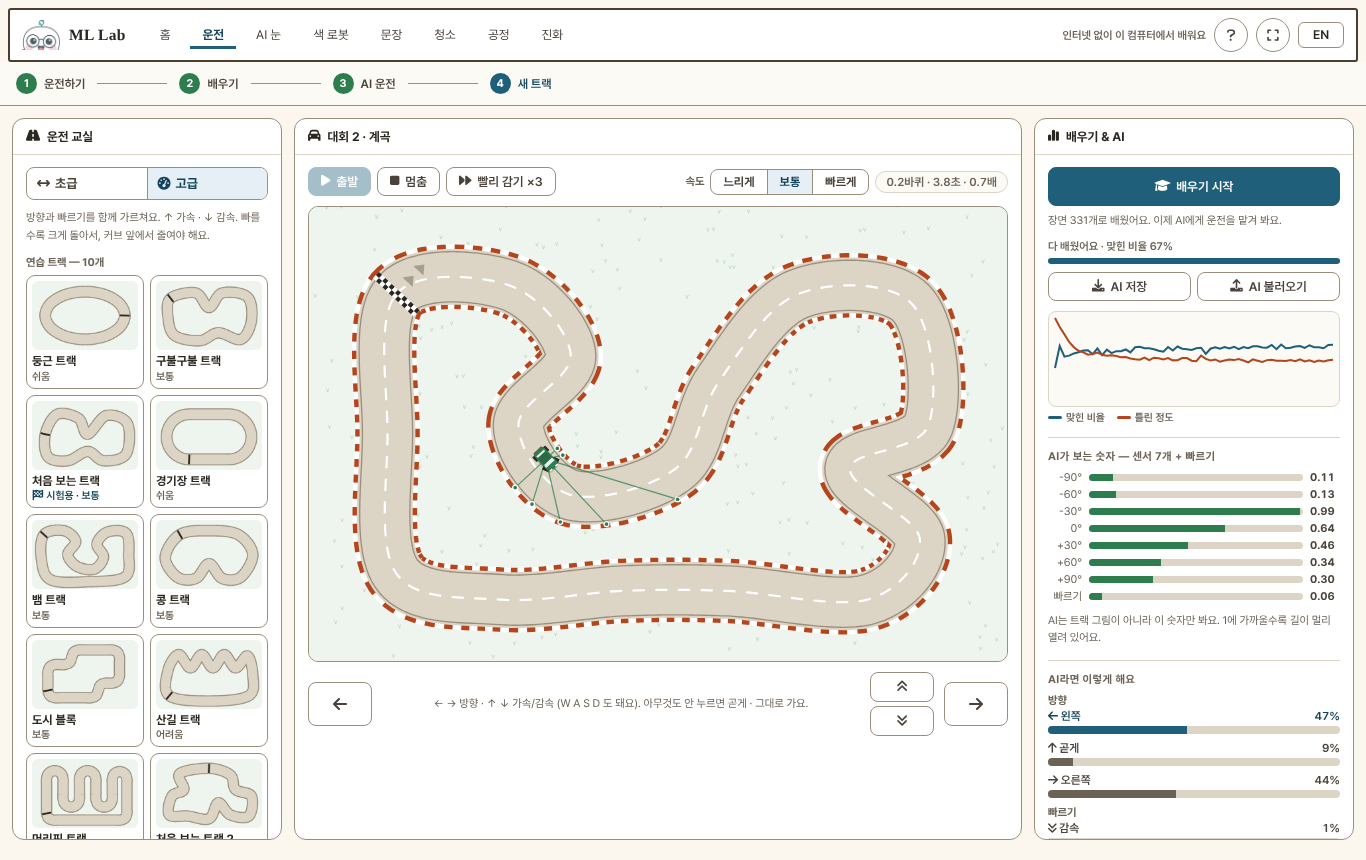
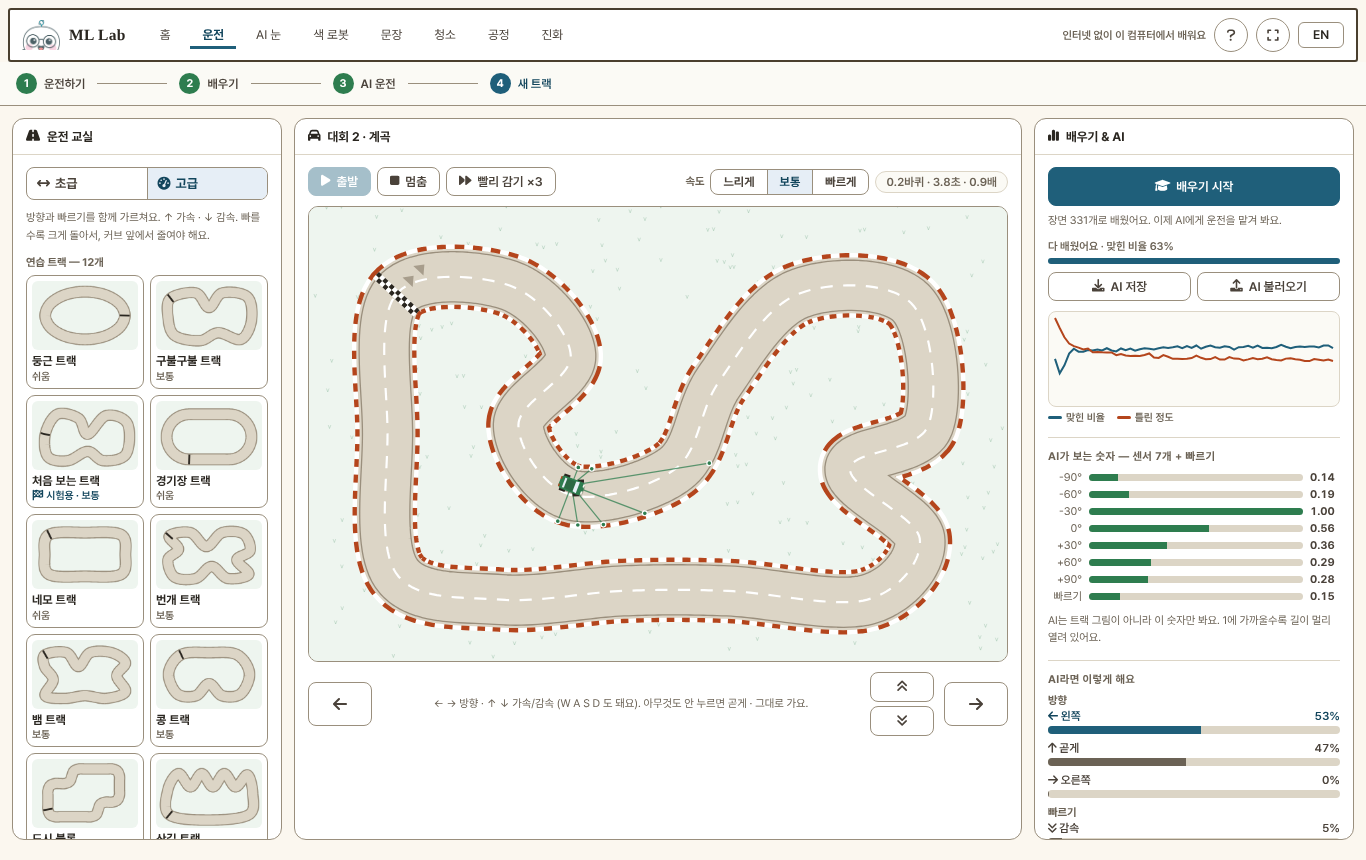
운전: edge-lab 자동차 가르치기에 맞춤 — 같은 트랙 · 같은 AI 파일 형식
- 같은 id 트랙을 edge-lab 모양으로: bean · snake · test2 (조절점 · 폭까지 같음, 마스크 비교)
- edge-lab 에만 있던 네모(square) · 번개(zigzag) 트랙 추가 → 연습 트랙 12개 · 24코스
- AI 파일을 edge-lab 형식(kind 'edge-lab-drive')으로 저장 — edge-lab 을 고치지 않고 바로 읽음.
  예전 'ml-lab-drive' 파일도 계속 읽음
- 처음 보는 트랙 2 난이도 어려움 → 보통 (edge-lab 모양 기준으로 다시 잼)
- 일반화 · 사람 난이도 · 고급 흐름 · 무게 효과 수치 다시 재서 DEVELOP · LESSONS · README 반영, 스크린샷 갱신
- 운전 모듈 import 버전 v7, page.js v8, i18n v10

Claude-Session: https://claude.ai/code/session_014h77NB54n1ck2McG7DAqXV

diff --git a/acts/drive/track.js b/acts/drive/track.js
@@ -40,6 +40,8 @@ function turtle(x, y, headingDeg, cmds, step = 40) {
 // level: 1 쉬움 · 2 보통 · 3 어려움. unseen: 연습에 쓰지 말고 시험에 쓰는 트랙.
 // 조절점 방향은 상관없다 — 차는 pts[0] 에서 pts[1] 쪽으로 출발하고, "거꾸로" 를 고르면 반대로 돈다.
 // 처음 세 트랙(oval·wavy·test)은 DEVELOP.md 의 잰 결과가 기대는 트랙이라 모양을 바꾸지 않는다.
+// edge-lab 자동차 가르치기(view_project/lib/drive.js)와 id 가 같은 트랙은 조절점 · 폭까지 똑같이 둔다
+// (oval · wavy · square · bean · zigzag · snake · test · test2 · c1~c3). 한쪽을 바꾸면 다른 쪽도 바꾼다.
 export const TRACKS = [
   {
     id: 'oval', label: '둥근 트랙', width: 74, level: 1,
@@ -64,17 +66,27 @@ export const TRACKS = [
     ctrl: turtle(250, 440, 0, [['F', 300], ['L', 180, 170], ['F', 300], ['L', 180, 170]]),
   },
   {
+    // 둥근 네모 — 커브 넷이 모두 같은 쪽 (edge-lab 트랙)
+    id: 'square', label: '네모 트랙', width: 74, level: 1,
+    ctrl: [[130, 110], [400, 95], [670, 110], [705, 260], [670, 410], [400, 425], [130, 410], [95, 260]],
+  },
+  {
+    // 번개처럼 꺾이는 커브가 이어진다 (edge-lab 트랙)
+    id: 'zigzag', label: '번개 트랙', width: 70, level: 2,
+    ctrl: [[100, 120], [260, 95], [380, 200], [500, 95], [660, 105], [710, 230], [610, 300],
+           [700, 410], [540, 440], [420, 350], [300, 440], [140, 430], [90, 300], [170, 220]],
+  },
+  {
     // 뱀처럼 왼쪽·오른쪽 커브가 번갈아 나온다
     id: 'snake', label: '뱀 트랙', width: 70, level: 2,
-    ctrl: [[90, 110], [240, 80], [330, 160], [270, 260], [340, 350], [470, 370],
-           [540, 280], [490, 180], [570, 90], [710, 100], [730, 260], [700, 430],
-           [420, 465], [140, 450], [70, 290]],
+    ctrl: [[100, 110], [260, 95], [350, 200], [440, 95], [600, 95], [705, 170], [640, 270],
+           [705, 390], [560, 440], [400, 420], [250, 440], [100, 420], [160, 300], [95, 200]],
   },
   {
     // 바깥으로 크게 돌다가 안쪽으로 한 번 움푹 들어간다 (반대쪽 커브가 하나)
     id: 'bean', label: '콩 트랙', width: 72, level: 2,
-    ctrl: [[180, 110], [400, 80], [620, 110], [730, 260], [640, 430], [500, 440],
-           [400, 330], [300, 440], [160, 430], [70, 280]],
+    ctrl: [[190, 110], [400, 95], [610, 110], [705, 250], [640, 405], [500, 420], [400, 330],
+           [300, 420], [160, 405], [95, 250]],
   },
   {
     // 네모난 길모퉁이 — 직각 커브가 왼쪽·오른쪽으로 모두 있다
@@ -101,15 +113,14 @@ export const TRACKS = [
     ]),
   },
   {
-    id: 'test2', label: '처음 보는 트랙 2', width: 70, level: 3, unseen: true,
-    ctrl: [[400, 70], [560, 120], [600, 230], [720, 280], [700, 430], [560, 420],
-           [470, 330], [400, 450], [240, 430], [100, 420], [120, 280], [210, 230],
-           [180, 110]],
+    id: 'test2', label: '처음 보는 트랙 2', width: 70, level: 2, unseen: true,
+    ctrl: [[120, 150], [300, 95], [470, 140], [620, 95], [710, 200], [650, 330], [700, 430],
+           [470, 440], [330, 360], [190, 440], [100, 330]],
   },
 ];
 
 // 대회 트랙 — AI 만 달린다 (사람 운전 · 끼어들기 · 장면 모으기 없음). 연습 트랙(TRACKS)과 따로 둔다:
-// 섞으면 "트랙 — 10개", 20코스 검사, DEVELOP.md 의 일반화 표가 모두 바뀐다.
+// 섞으면 "연습 트랙 — 12개", 24코스 검사, DEVELOP.md 의 일반화 표가 모두 바뀐다.
 // 조절점은 edge-lab(view_project/lib/drive.js)과 똑같다 — spline · 마스크 계산도 같아서 같은 트랙이 된다.
 // 기본 방향만 쓴다 (거꾸로는 없다 — 화면에서 방향 고르기를 숨긴다). c1 은 연습용 '머리핀 트랙' 과 헷갈리지 않게 이름만 바꿨다.
 export const CONTEST = [

diff --git a/acts/drive/page.js b/acts/drive/page.js
@@ -9,9 +9,9 @@
 // 고급: 방향 + 빠르기 (센서 7개 + 빠르기 → 방향 3 · 빠르기 3). edge-lab 자동차 가르치기와 같은 계산.
 // 두 모드는 AI 가 보는 숫자 개수가 달라(7 · 8) 모은 운전 · AI · 기록을 따로 가진다.
 
-import { TRACKS, CONTEST, WORLD_W, WORLD_H, buildTrack, centerline } from './track.js?v=6';
-import { Car, RAY_DEG, RAY_MAX, DT, drive as raceDrive } from './sim.js?v=6';
-import { Policy, savePolicy, loadPolicy } from './policy.js?v=6';
+import { TRACKS, CONTEST, WORLD_W, WORLD_H, buildTrack, centerline } from './track.js?v=7';
+import { Car, RAY_DEG, RAY_MAX, DT, drive as raceDrive } from './sim.js?v=7';
+import { Policy, savePolicy, loadPolicy } from './policy.js?v=7';
 
 const T = s => (typeof GL_T === 'function' ? GL_T(s) : s);
 const $ = id => document.getElementById(id);
@@ -27,7 +27,7 @@ const MIN_SAMPLES = 30;
 // 왼쪽·오른쪽으로 도는 장면이 각각 이만큼은 있어야 처음 보는 트랙에서도 잘 돈다.
 // 사람처럼 늦게 반응하는 가상 학생으로 재 보니 바퀴 수보다 이 균형이 중요했다:
 // 둥근 트랙만 돌며 왼쪽이 6~15장면이면 다른 트랙에서 곧 부딪혔고,
-// 양쪽이 각각 30장면을 넘으면 구불구불 트랙 반 바퀴로도 20개 코스를 모두 돌았다.
+// 양쪽이 각각 30장면을 넘으면 구불구불 트랙 반 바퀴로도 24개 코스를 모두 돌았다.
 // 다만 쉬운 트랙(둥근·경기장)만 양방향으로 돌면 양쪽 장면은 넉넉해도 급한 커브를
 // 못 배워 산길·콩 트랙에서 부딪혔다 — 그래서 쉬운 트랙에서만 모았으면 따로 알려 준다.
 const READY_TURNS = 30;
@@ -39,7 +39,7 @@ const THR_ICON = ['fa-angles-down', 'fa-equals', 'fa-angles-up'];
 const LEVEL_LABEL = ['', '쉬움', '보통', '어려움'];
 
 // ── 상태 ────────────────────────────────────────────────────
-// 트랙 번호: 0~9 연습 트랙(TRACKS), 10~12 대회 트랙(CONTEST)
+// 트랙 번호: 0~11 연습 트랙(TRACKS), 12~14 대회 트랙(CONTEST)
 const ALL = [...TRACKS, ...CONTEST];
 const isRace = i => !!ALL[i].contest;
 // 트랙은 고를 때 만든다 (마스크 만들기가 무거워서 처음에 다 만들지 않는다)

diff --git a/acts/drive/policy.js b/acts/drive/policy.js
@@ -147,11 +147,12 @@ export class Policy {
 
 // ── AI 파일 ─────────────────────────────────────────────────
 // 배운 AI 를 JSON 으로. 계산에 난수가 없어 다른 PC 에서 불러와도 같은 운전을 한다.
-// edge-lab 자동차 가르치기와 형식이 같다 (kind 만 다름) — 트랙 · 물리가 같아 같은 AI 면 같은 대회 기록이 나온다.
-export const AI_KINDS = ['ml-lab-drive', 'edge-lab-drive'];
+// edge-lab 자동차 가르치기와 형식까지 같게 저장한다 (kind 'edge-lab-drive') — edge-lab 이 고치지 않고 바로 읽는다.
+// 트랙 · 물리가 같아 같은 AI 면 두 서비스에서 같은 대회 기록이 나온다. 읽을 때는 예전 ml-lab 파일('ml-lab-drive')도 받는다.
+export const AI_KINDS = ['edge-lab-drive', 'ml-lab-drive'];
 
 export function savePolicy(pol, info = {}) {
-  const o = { kind: 'ml-lab-drive', v: 1, nIn: pol.nIn, hid: pol.hid, heads: pol.heads.slice(), p: {} };
+  const o = { kind: 'edge-lab-drive', v: 1, nIn: pol.nIn, hid: pol.hid, heads: pol.heads.slice(), p: {} };
   for (const k in pol.p) o.p[k] = Array.from(pol.p[k], v => +v.toPrecision(7));
   return Object.assign(o, info);
 }

diff --git a/acts/drive/sim.js b/acts/drive/sim.js
@@ -10,7 +10,7 @@
 // AI 는 센서 7개 + 지금 빠르기를 본다. 고급 계산은 edge-lab view_project/lib/drive.js 와 같다
 // (같은 AI 파일이면 두 저장소에서 같은 대회 기록이 나오게).
 
-import { onRoad, nearestIdx } from './track.js?v=6';
+import { onRoad, nearestIdx } from './track.js?v=7';
 
 export const RAY_DEG = [-90, -60, -30, 0, 30, 60, 90];
 export const RAY_MAX = 160;           // 센서가 볼 수 있는 가장 먼 거리
@@ -55,7 +55,7 @@ export class Car {
 
   // action: 0/1/2, k: 빠르기 배수 (초급은 늘 1). 반환: 부딪혔는지
   // 판단은 1/60초에 한 번, 움직임만 ceil(k) 번으로 잘게 나눠 길을 건너뛰지 않게 한다.
-  // k = 1 이면 예전 계산과 비트 단위로 같다 (식의 계산 순서까지 그대로 — tests/drive.test.mjs 가 20코스로 비교).
+  // k = 1 이면 예전 계산과 비트 단위로 같다 (식의 계산 순서까지 그대로 — tests/drive.test.mjs 가 24코스로 비교).
   step(action, k = 1) {
     if (this.crashed) return true;
     const sub = Math.ceil(k);

diff --git a/drive.html b/drive.html
@@ -39,7 +39,7 @@
       </div>
       <div class="hint" id="modeHint">방향만 가르쳐요. 차는 늘 같은 빠르기로 달려요.</div>
 
-      <div class="pb-label" style="margin-top:12px">연습 트랙 — 10개</div>
+      <div class="pb-label" style="margin-top:12px">연습 트랙 — 12개</div>
       <div id="trackPick"></div>
       <div id="dirBox">
         <div class="row" style="margin-top:8px;align-items:center">
@@ -161,8 +161,8 @@
 <div id="toast"></div>
 
 <script src="lib/nav.js?v=5"></script>
-<script src="lib/i18n.js?v=9"></script>
+<script src="lib/i18n.js?v=10"></script>
 <script src="lib/tour.js?v=6"></script>
-<script type="module" src="acts/drive/page.js?v=7"></script>
+<script type="module" src="acts/drive/page.js?v=8"></script>
 </body>
 </html>

diff --git a/lib/i18n.js b/lib/i18n.js
@@ -102,7 +102,9 @@ const GL_I18N = {
   '고급': 'Advanced',
   '방향만 가르쳐요. 차는 늘 같은 빠르기로 달려요.': 'Teach steering only. The car always runs at the same speed.',
   '방향과 빠르기를 함께 가르쳐요. ↑ 가속 · ↓ 감속. 빠를수록 크게 돌아서, 커브 앞에서 줄여야 해요.': 'Teach steering and speed. ↑ faster · ↓ slower. The faster it goes, the wider it turns — slow down before corners.',
-  '연습 트랙 — 10개': 'Practice tracks — 10',
+  '연습 트랙 — 12개': 'Practice tracks — 12',
+  '네모 트랙': 'Box track',
+  '번개 트랙': 'Zigzag track',
   '대회 트랙 — AI만 달려요': 'Race tracks — AI only',
   '대회': 'Race',
   '대회 1 · U턴': 'Race 1 · U-turn',

diff --git a/cleaner.html b/cleaner.html
@@ -110,7 +110,7 @@
 <div id="toast"></div>
 
 <script src="lib/nav.js?v=5"></script>
-<script src="lib/i18n.js?v=9"></script>
+<script src="lib/i18n.js?v=10"></script>
 <script src="lib/tour.js?v=6"></script>
 <script type="module" src="acts/cleaner/page.js?v=2"></script>
 </body>

diff --git a/color.html b/color.html
@@ -127,7 +127,7 @@
 <div id="toast"></div>
 
 <script src="lib/nav.js?v=5"></script>
-<script src="lib/i18n.js?v=9"></script>
+<script src="lib/i18n.js?v=10"></script>
 <script src="lib/tour.js?v=6"></script>
 <script type="module" src="acts/color/page.js?v=2"></script>
 </body>

diff --git a/evolve.html b/evolve.html
@@ -97,7 +97,7 @@
 <div id="toast"></div>
 
 <script src="lib/nav.js?v=5"></script>
-<script src="lib/i18n.js?v=9"></script>
+<script src="lib/i18n.js?v=10"></script>
 <script src="lib/tour.js?v=6"></script>
 <script type="module" src="acts/evolve/page.js?v=2"></script>
 </body>

diff --git a/fair.html b/fair.html
@@ -101,7 +101,7 @@
 <div id="toast"></div>
 
 <script src="lib/nav.js?v=5"></script>
-<script src="lib/i18n.js?v=9"></script>
+<script src="lib/i18n.js?v=10"></script>
 <script src="lib/tour.js?v=6"></script>
 <script type="module" src="acts/fair/page.js?v=1"></script>
 </body>

diff --git a/word.html b/word.html
@@ -130,7 +130,7 @@
 <div id="toast"></div>
 
 <script src="lib/nav.js?v=5"></script>
-<script src="lib/i18n.js?v=9"></script>
+<script src="lib/i18n.js?v=10"></script>
 <script src="lib/tour.js?v=6"></script>
 <script type="module" src="acts/word/page.js?v=1"></script>
 </body>

diff --git a/eye.html b/eye.html
@@ -147,7 +147,7 @@
 <div id="toast"></div>
 
 <script src="lib/nav.js?v=5"></script>
-<script src="lib/i18n.js?v=9"></script>
+<script src="lib/i18n.js?v=10"></script>
 <script src="lib/tour.js?v=6"></script>
 <script type="module" src="acts/eye/page.js?v=1"></script>
 </body>
